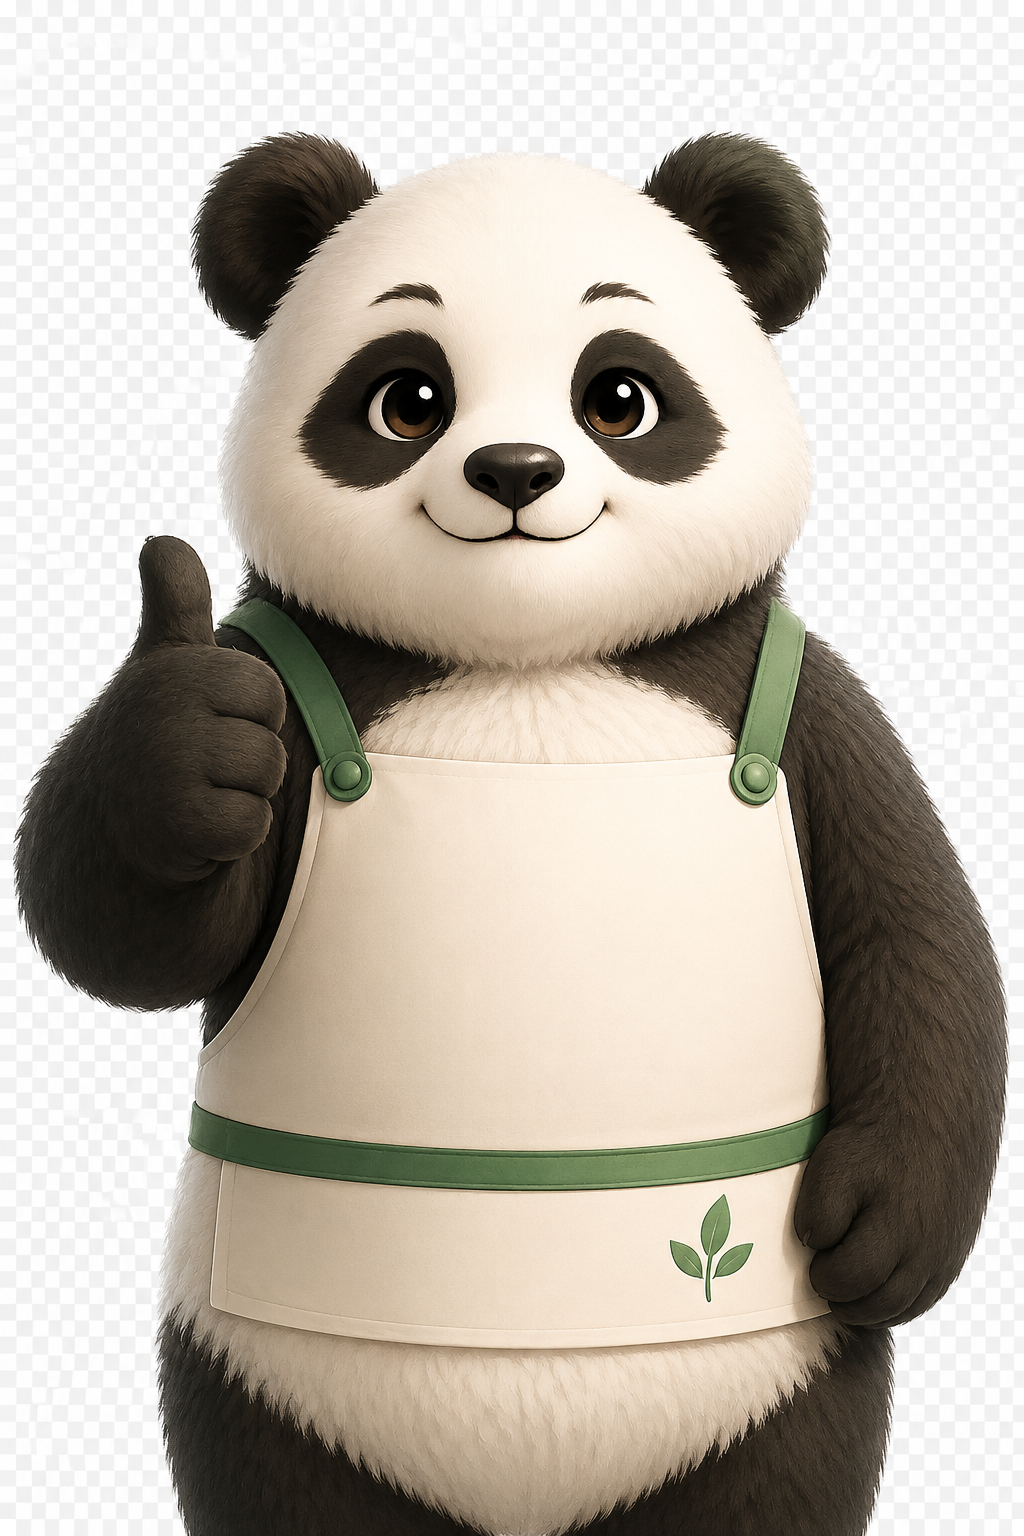
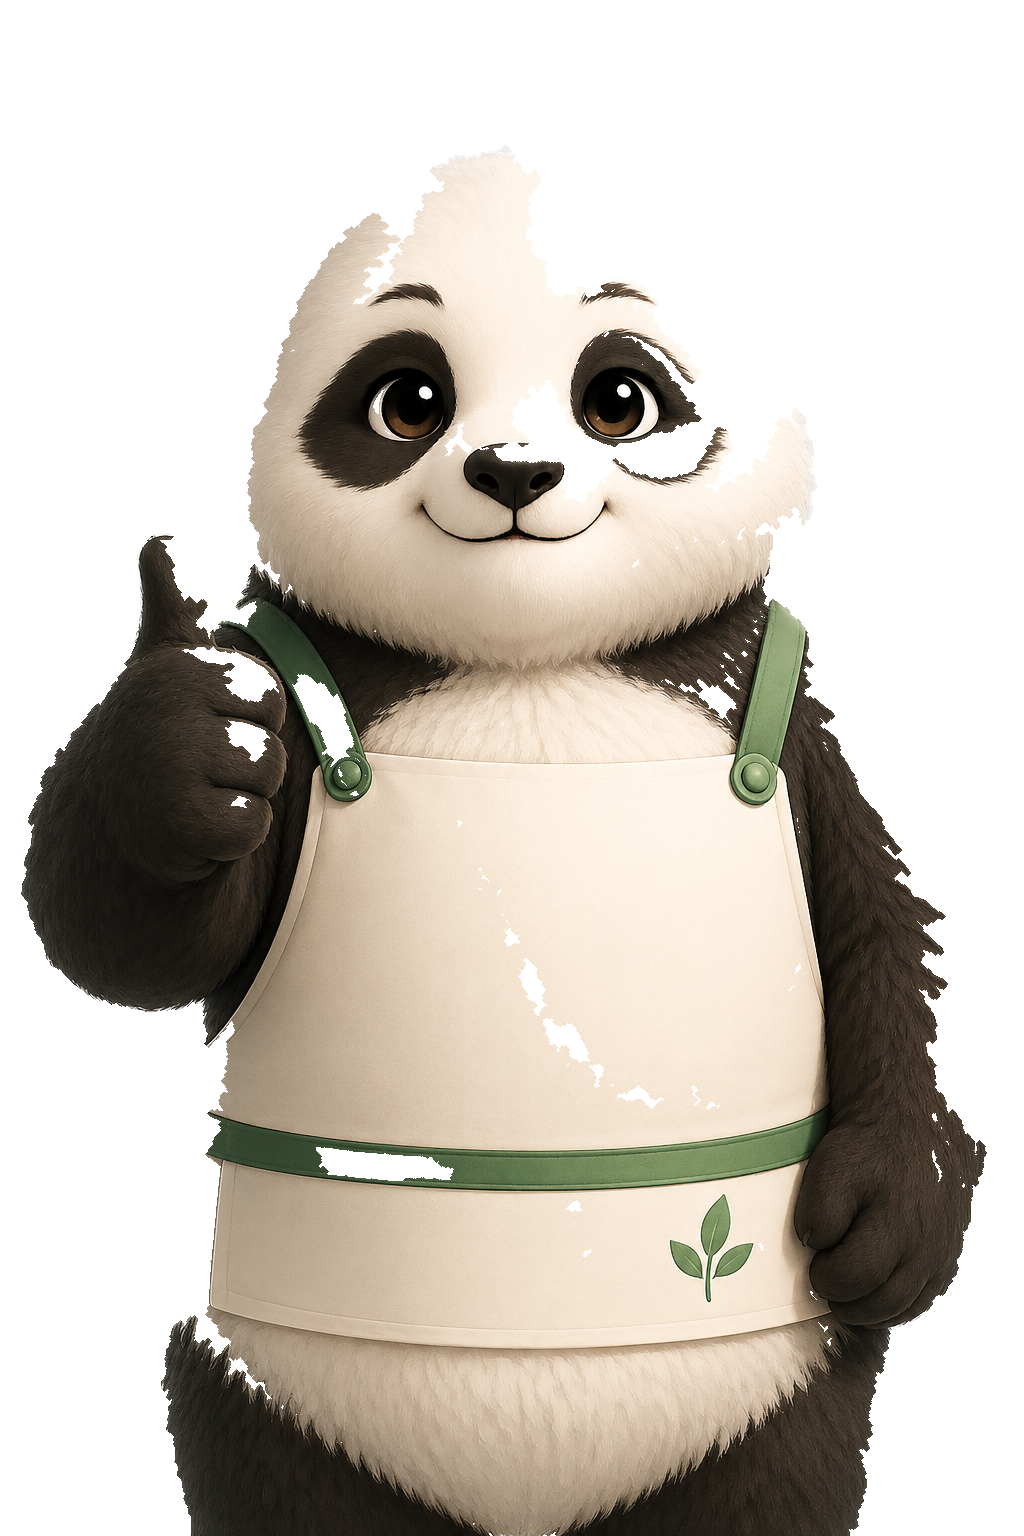
fullbleed: rework brand asset placement
Hero:
- Removed the 4-logo strip from under CTA buttons
- Only «Давай дружить!» slogan remains, centered (cropped to
  assets/hero-slogan.png 1460×227, with leaf-tip remnant masked
  out by colour)

Form section:
- Removed the panda mascot (.fs-panda) and its CSS — too busy
  next to the landscape + form card

Footer:
- 'Green panda' textual wordmark in left column replaced with
  logo-greenpanda.png (height 46px, inverted to white for dark
  footer)
- New .footer-marks strip between .top and .bottom: Eco Friendly,
  ЕАС, КубаньБытХим (logo-eco/eac/kbh.png). 54px tall, soft white
  glow on Eco and ЕАС so they read on dark green; КБХ keeps its
  native white card.
- New blurb text under brand logo: 'ООО КубаньБытХим — производство
  эко-бытовой химии под ТМ Green Panda.'

Assets generated by splitting the old hero-badges.png:
  hero-slogan.png        1460×227
  logo-greenpanda.png    458×230
  logo-eco.png           304×245
  logo-eac.png           207×219
  logo-kbh.png           607×254

diff --git a/fullbleed/index.html b/fullbleed/index.html
@@ -246,15 +246,14 @@
   .hero .meta strong{display:block;font-size:22px;color:#08120D;font-weight:700;margin-bottom:4px;letter-spacing:-.01em}
   .hero .meta{border-top:1px solid rgba(8,18,13,.18)}
 
-  /* Hero badges strip — original colors, soft white halo for lift over video */
+  /* Hero slogan — «Давай дружить!» centered under the CTA buttons */
   .hero-badges{
     margin-top:40px;max-width:560px;
     padding:0;background:none;border:0;box-shadow:none;backdrop-filter:none;
   }
+  .hero-badges-center{margin-left:auto;margin-right:auto;text-align:center}
   .hero-badges img{
-    display:block;width:100%;height:auto;
-    /* Soft white halo behind colored logos so they pop on any video frame
-       without erasing the brand colours. */
+    display:inline-block;max-width:100%;height:auto;
     filter:
       drop-shadow(0 0 6px rgba(255,255,255,.85))
       drop-shadow(0 0 14px rgba(255,255,255,.6))
@@ -339,13 +338,6 @@
     position:absolute;inset:0;z-index:0;pointer-events:none;
     background:url("../assets/form-bg.png") center center / cover no-repeat;
   }
-  .form-section .fs-panda{
-    position:absolute;top:50%;left:0;
-    transform:translate(-12%,-50%);
-    height:108%;width:auto;max-width:none;
-    z-index:1;pointer-events:none;
-    filter:drop-shadow(0 30px 60px rgba(0,0,0,.35));
-  }
   .form-section .container.form-grid{position:relative;z-index:2}
   /* Left copy column sits over the panda — make every text element
      white with a strong dark halo so it reads on top of fur, apron,
@@ -366,12 +358,6 @@
   .form-section ul li::before{
     /* Bump the check-mark contrast too — it's currently sage green on transparent */
     filter:drop-shadow(0 0 4px rgba(0,0,0,.55));
-  }
-  @media (max-width:980px){
-    .form-section .fs-panda{height:96%;transform:translate(-22%,-50%);opacity:.55}
-  }
-  @media (max-width:760px){
-    .form-section .fs-panda{display:none}
   }
 
   /* Form section */
@@ -413,6 +399,33 @@
   footer.site .col a:hover{color:#fff}
   footer.site .logo{color:#fff;margin-bottom:16px}
   footer.site .logo .mark{background:#fff;color:var(--green-900)}
+  footer.site .footer-brand{display:block}
+  footer.site .footer-brand img{
+    height:46px;width:auto;display:block;
+    /* invert the dark grey wordmark to white for dark footer */
+    filter:brightness(0) invert(1);
+  }
+  footer.site .footer-marks{
+    display:flex;align-items:center;gap:40px;flex-wrap:wrap;
+    padding:32px 0;border-top:1px solid rgba(255,255,255,.08);
+    border-bottom:1px solid rgba(255,255,255,.08);
+    margin-top:8px;
+  }
+  footer.site .footer-marks img{
+    height:54px;width:auto;display:block;opacity:.92;
+    transition:opacity .15s ease;
+  }
+  footer.site .footer-marks img:hover{opacity:1}
+  /* КБХ logo has a white card behind it — let it keep its native colors;
+     the other two get a soft outline glow for contrast on dark green */
+  footer.site .footer-marks img[alt^="Eco"],
+  footer.site .footer-marks img[alt^="ЕАС"]{
+    filter:drop-shadow(0 0 4px rgba(255,255,255,.18));
+  }
+  @media (max-width:560px){
+    footer.site .footer-marks{gap:24px;padding:24px 0}
+    footer.site .footer-marks img{height:40px}
+  }
   footer.site .blurb{font-size:14px;color:#a7b3ad;line-height:1.55;max-width:320px}
   footer.site .bottom{display:flex;justify-content:space-between;align-items:center;padding-top:24px;font-size:12px;color:#7e8c85}
   footer.site .bottom a{color:#a7b3ad}
@@ -477,8 +490,8 @@
         <a href="#request" class="btn btn-primary">Получить прайс</a>
         <a href="#catalog" class="btn btn-primary">Смотреть каталог</a>
       </div>
-      <div class="hero-badges">
-        <img src="../assets/hero-badges.png?v=5" alt="Green Panda · Eco Friendly · EAC · КубаньБытХим — Безопасная чистота" />
+      <div class="hero-badges hero-badges-center">
+        <img src="../assets/hero-slogan.png?v=1" alt="Давай дружить!" />
       </div>
     </div>
   </div>
@@ -610,7 +623,6 @@
 <!-- FORM -->
 <section class="form-section" id="request" data-tweak-block="request">
   <div class="fs-bg" aria-hidden="true"></div>
-  <img class="fs-panda" src="../assets/panda-mascot.png?v=2" alt="" aria-hidden="true" />
   <div class="container form-grid">
     <div>
       <div class="eyebrow">Заявка</div>
@@ -657,8 +669,8 @@
   <div class="container">
     <div class="top">
       <div class="col">
-        <div class="logo"><span class="mark">G</span>Green panda</div>
-        <p class="blurb">Кубань реквизиты</p>
+        <div class="logo footer-brand"><img src="../assets/logo-greenpanda.png?v=1" alt="Green Panda" /></div>
+        <p class="blurb">ООО «КубаньБытХим» — производство эко-бытовой химии под ТМ Green Panda.</p>
       </div>
       <div class="col">
         <h5>Контакты</h5>
@@ -679,6 +691,11 @@
         <a href="#cert" id="certLink" data-cert>Сертификаты</a>
         <a href="#">Политика обработки ПДн</a>
       </div>
+    </div>
+    <div class="footer-marks" aria-label="Сертификаты и реквизиты">
+      <img src="../assets/logo-eco.png?v=1" alt="Eco Friendly" />
+      <img src="../assets/logo-eac.png?v=1" alt="ЕАС — Евразийское соответствие" />
+      <img src="../assets/logo-kbh.png?v=1" alt="КубаньБытХим — Безопасная чистота" />
     </div>
     <div class="bottom">
       <span>© [ЗАМЕНИ: 2014–2026] Green panda. [ЗАМЕНИ: ООО «Грин Панда», ИНН 0000000000]</span>